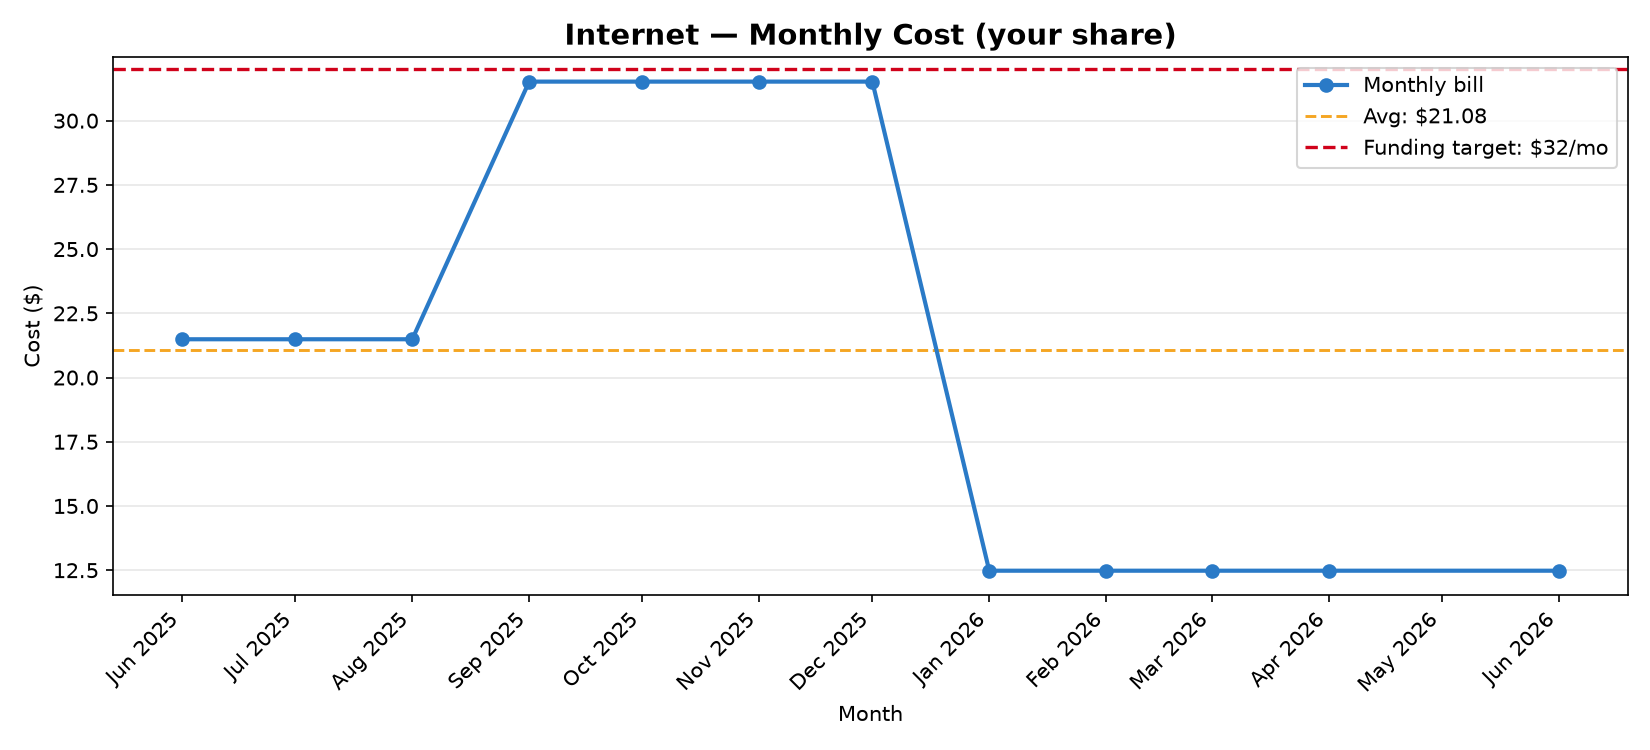
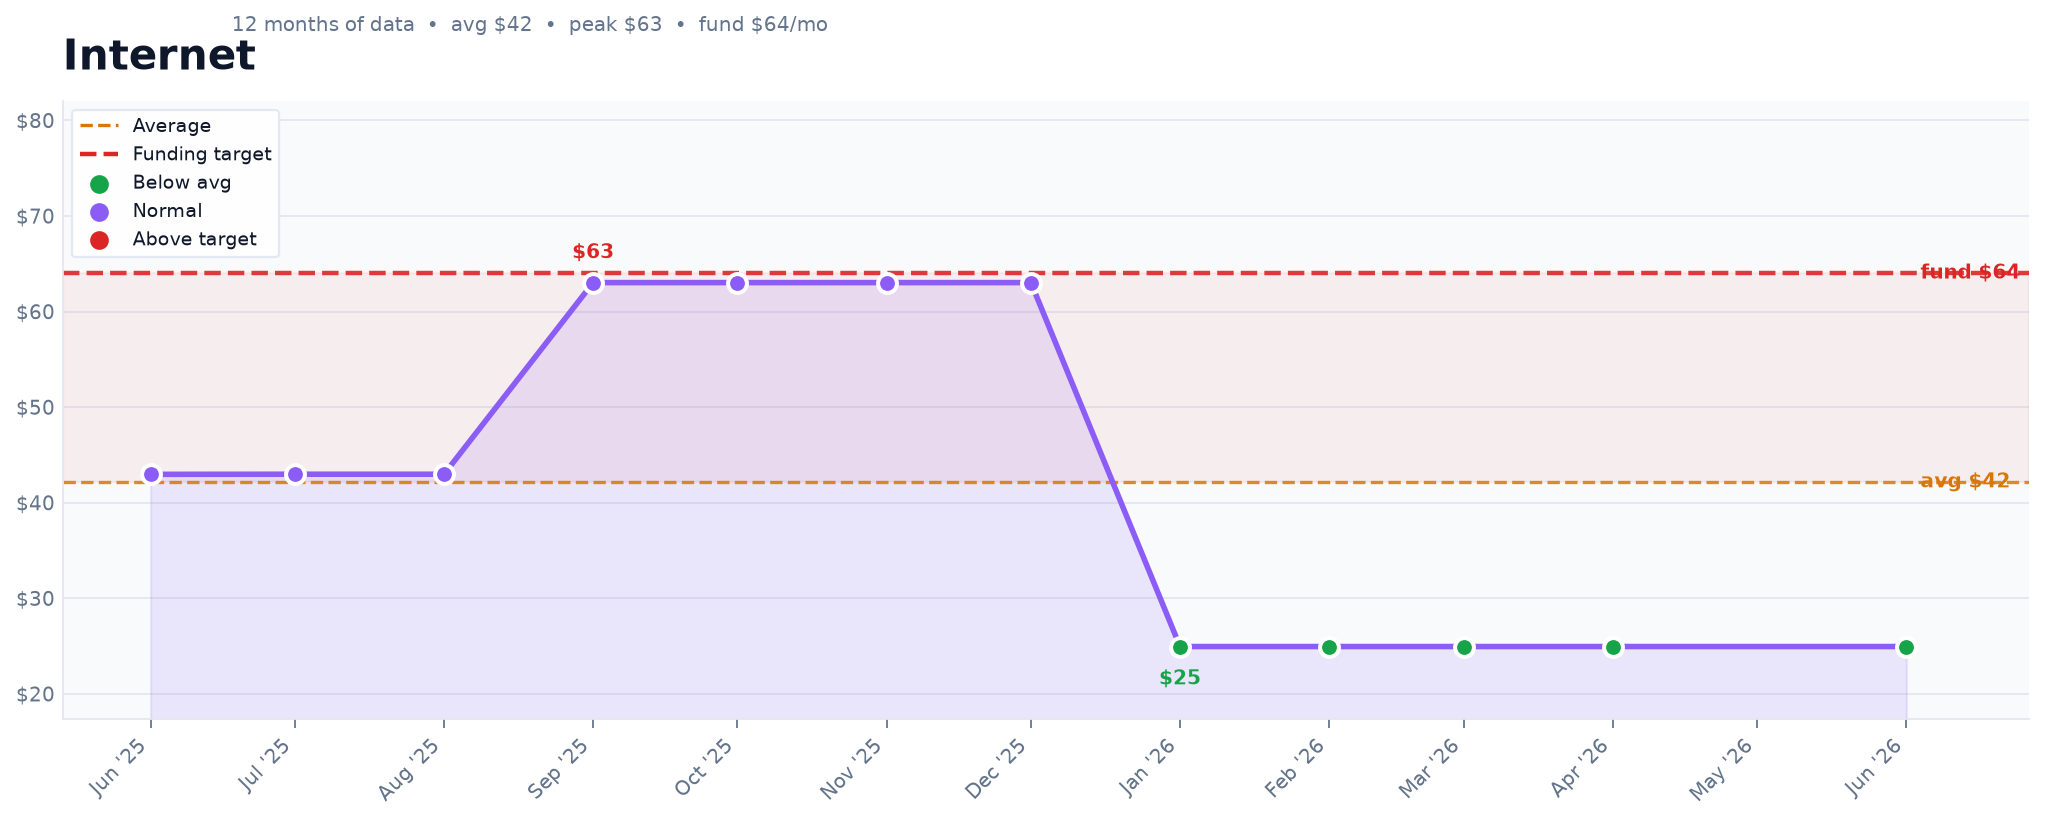
Update bills to full amounts and redesign utility charts
Switch all bill amounts to full (not split) values. Overhaul chart
generation with utility-specific colors, fill-under-line, color-coded
data points (green/blue/red by funding zone), inline avg/target labels,
peak+low annotations, and a new 2x2 overview chart for all utilities.

Claude-Session: https://claude.ai/code/session_019a94zwuEHMtxW31Vn2e8yf

diff --git a/utilities/analyze.py b/utilities/analyze.py
@@ -161,13 +161,47 @@ def seasonal_pattern(values_by_date):
 
 # ─── Charts ───────────────────────────────────────────────────────────────────
 
-def generate_chart(utility, active_rows, excluded_rows, recommended, avg_val):
-    """Save a line chart PNG for this utility. Uses only stdlib + matplotlib."""
+PALETTE = {
+    "blue":    "#2563eb",
+    "amber":   "#d97706",
+    "red":     "#dc2626",
+    "green":   "#16a34a",
+    "gray":    "#94a3b8",
+    "bg":      "#f8fafc",
+    "grid":    "#e2e8f0",
+    "text":    "#0f172a",
+    "subtext": "#64748b",
+}
+
+UTILITY_COLOR = {
+    "Water":    "#0ea5e9",
+    "Power":    "#f59e0b",
+    "Internet": "#8b5cf6",
+    "Trash":    "#10b981",
+}
+
+
+def _setup_ax(ax):
+    ax.set_facecolor(PALETTE["bg"])
+    for spine in ("top", "right"):
+        ax.spines[spine].set_visible(False)
+    ax.spines["left"].set_color(PALETTE["grid"])
+    ax.spines["bottom"].set_color(PALETTE["grid"])
+    ax.grid(axis="y", color=PALETTE["grid"], linewidth=0.8, zorder=0)
+    ax.set_axisbelow(True)
+    ax.tick_params(axis="x", colors=PALETTE["subtext"], length=4)
+    ax.tick_params(axis="y", colors=PALETTE["subtext"], length=0)
+
+
+def generate_chart(utility, active_rows, excluded_rows, recommended, avg_val, s=None):
+    """Save a polished line chart PNG for this utility."""
     try:
         import matplotlib
         matplotlib.use("Agg")
         import matplotlib.pyplot as plt
         import matplotlib.dates as mdates
+        import matplotlib.lines as mlines
+        import matplotlib.ticker as mticker
         import datetime
     except ImportError:
         print("  [charts skipped — install matplotlib: pip install matplotlib]")
@@ -175,37 +209,192 @@ def generate_chart(utility, active_rows, excluded_rows, recommended, avg_val):
 
     os.makedirs(CHARTS_DIR, exist_ok=True)
 
-    def to_date(s):
-        return datetime.datetime.strptime(s, "%Y-%m")
+    def to_date(d):
+        return datetime.datetime.strptime(d, "%Y-%m")
 
-    dates = [to_date(r["date"]) for r in active_rows]
+    dates   = [to_date(r["date"]) for r in active_rows]
     amounts = [r["amount"] for r in active_rows]
+    line_color = UTILITY_COLOR.get(utility, PALETTE["blue"])
 
-    excl_dates = [to_date(r["date"]) for r in excluded_rows]
-    excl_amounts = [r["amount"] for r in excluded_rows]
+    fig, ax = plt.subplots(figsize=(13, 5.5))
+    fig.patch.set_facecolor("white")
+    _setup_ax(ax)
 
-    fig, ax = plt.subplots(figsize=(11, 5))
-    ax.plot(dates, amounts, "o-", linewidth=2, color="#2a7ac7", label="Monthly bill", zorder=3)
-    if excl_dates:
-        ax.scatter(excl_dates, excl_amounts, color="gray", marker="x", s=80,
-                   linewidths=2, label="Excluded (outlier)", zorder=4)
-    ax.axhline(avg_val, color="#f5a623", linestyle="--", linewidth=1.4,
-               label=f"Avg: ${avg_val:.2f}")
-    ax.axhline(recommended, color="#d0021b", linestyle="--", linewidth=1.6,
-               label=f"Funding target: ${recommended:.0f}/mo")
-    ax.set_title(f"{utility} — Monthly Cost (your share)", fontsize=14, fontweight="bold")
-    ax.set_xlabel("Month")
-    ax.set_ylabel("Cost ($)")
-    ax.xaxis.set_major_formatter(mdates.DateFormatter("%b %Y"))
+    # Soft fill under the line
+    ax.fill_between(dates, amounts, alpha=0.13, color=line_color, zorder=1)
+
+    # Avg–target shaded band
+    if recommended > avg_val:
+        ax.axhspan(avg_val, recommended, alpha=0.06, color=PALETTE["red"], zorder=1)
+
+    # Avg and target reference lines
+    ax.axhline(avg_val,     color=PALETTE["amber"], linestyle="--", linewidth=1.5,
+               alpha=0.85, zorder=2)
+    ax.axhline(recommended, color=PALETTE["red"],   linestyle="--", linewidth=2.0,
+               alpha=0.9,  zorder=2)
+
+    # Main line
+    ax.plot(dates, amounts, "-", linewidth=2.5, color=line_color, zorder=3)
+
+    # Color-coded points: green below avg, red above target, line_color otherwise
+    for d, a in zip(dates, amounts):
+        c = (PALETTE["red"]   if a > recommended else
+             PALETTE["green"] if a < avg_val     else line_color)
+        ax.scatter([d], [a], s=72, color=c, zorder=5,
+                   edgecolors="white", linewidths=1.8)
+
+    # Excluded points
+    if excluded_rows:
+        ex_d = [to_date(r["date"])  for r in excluded_rows]
+        ex_a = [r["amount"]          for r in excluded_rows]
+        ax.scatter(ex_d, ex_a, s=70, color=PALETTE["gray"], marker="x",
+                   linewidths=2.2, zorder=5)
+
+    # Annotate peak and low
+    if amounts:
+        hi_i = amounts.index(max(amounts))
+        lo_i = amounts.index(min(amounts))
+        spread = max(amounts) - min(amounts) if len(amounts) > 1 else 1
+        ax.annotate(f"${amounts[hi_i]:.0f}",
+                    (dates[hi_i], amounts[hi_i]),
+                    xytext=(0, 11), textcoords="offset points",
+                    ha="center", fontsize=9, fontweight="bold",
+                    color=PALETTE["red"])
+        ax.annotate(f"${amounts[lo_i]:.0f}",
+                    (dates[lo_i], amounts[lo_i]),
+                    xytext=(0, -17), textcoords="offset points",
+                    ha="center", fontsize=9, fontweight="bold",
+                    color=PALETTE["green"])
+
+    # Inline labels at the right edge of the reference lines
+    if dates:
+        xmax = max(dates)
+        ax.text(xmax, avg_val,     f"  avg ${avg_val:.0f}",
+                va="center", ha="left", fontsize=9,
+                color=PALETTE["amber"], fontweight="semibold")
+        ax.text(xmax, recommended, f"  fund ${recommended}",
+                va="center", ha="left", fontsize=9,
+                color=PALETTE["red"], fontweight="bold")
+
+    # Axes formatting
+    ax.xaxis.set_major_formatter(mdates.DateFormatter("%b '%y"))
     ax.xaxis.set_major_locator(mdates.MonthLocator())
-    plt.xticks(rotation=45, ha="right")
-    ax.legend(loc="upper right")
-    ax.grid(axis="y", alpha=0.3)
-    plt.tight_layout()
+    plt.xticks(rotation=45, ha="right", fontsize=9, color=PALETTE["subtext"])
+    ax.yaxis.set_major_formatter(mticker.FuncFormatter(lambda v, _: f"${v:.0f}"))
+    ax.tick_params(axis="y", labelsize=9, labelcolor=PALETTE["subtext"])
+
+    # Y limits with breathing room
+    y_pad = (max(amounts) - min(amounts)) * 0.2 if len(amounts) > 1 else 10
+    ax.set_ylim(max(0, min(amounts) - y_pad), max(amounts) + y_pad * 2.5)
+
+    # Extend x-axis slightly right for inline labels
+    if len(dates) > 1:
+        span = (max(dates) - min(dates)).days
+        ax.set_xlim(right=max(dates) + datetime.timedelta(days=span * 0.07))
+
+    # Title block
+    ax.set_title(utility, fontsize=19, fontweight="bold",
+                 color=PALETTE["text"], pad=14, loc="left")
+    n_pts = len(amounts)
+    peak  = max(amounts) if amounts else 0
+    fig.text(0.115, 0.91,
+             f"{n_pts} months of data  •  avg ${avg_val:.0f}  •  "
+             f"peak ${peak:.0f}  •  fund ${recommended}/mo",
+             fontsize=9, color=PALETTE["subtext"])
+
+    # Legend
+    legend_handles = [
+        mlines.Line2D([0], [0], color=PALETTE["amber"], linestyle="--",
+                      linewidth=1.5, label=f"Average"),
+        mlines.Line2D([0], [0], color=PALETTE["red"],   linestyle="--",
+                      linewidth=2.0, label=f"Funding target"),
+        plt.scatter([], [], marker="o", c=PALETTE["green"],  s=55, label="Below avg"),
+        plt.scatter([], [], marker="o", c=line_color,          s=55, label="Normal"),
+        plt.scatter([], [], marker="o", c=PALETTE["red"],    s=55, label="Above target"),
+    ]
+    if excluded_rows:
+        legend_handles.append(
+            mlines.Line2D([0], [0], marker="x", color=PALETTE["gray"],
+                          linestyle="None", markersize=8, label="Excluded")
+        )
+    ax.legend(handles=legend_handles, loc="upper left",
+              framealpha=0.92, edgecolor=PALETTE["grid"],
+              fontsize=8.5, labelcolor=PALETTE["text"])
+
+    ax.set_xlabel("")
+    plt.tight_layout(rect=[0, 0, 1, 0.93])
     out_path = os.path.join(CHARTS_DIR, f"{utility.lower()}.png")
-    plt.savefig(out_path, dpi=150)
+    plt.savefig(out_path, dpi=160, bbox_inches="tight")
     plt.close()
     print(f"  Chart saved: charts/{utility.lower()}.png")
+
+
+def generate_overview_chart(all_results):
+    """Save a 2×2 summary overview of all four utilities."""
+    try:
+        import matplotlib
+        matplotlib.use("Agg")
+        import matplotlib.pyplot as plt
+        import matplotlib.dates as mdates
+        import matplotlib.ticker as mticker
+        import datetime
+    except ImportError:
+        return
+
+    os.makedirs(CHARTS_DIR, exist_ok=True)
+
+    fig, axes = plt.subplots(2, 2, figsize=(16, 9))
+    fig.patch.set_facecolor("white")
+    fig.suptitle("Utility Flex Funding — Overview",
+                 fontsize=16, fontweight="bold", color=PALETTE["text"], y=0.98)
+
+    for ax, utility in zip(axes.flat, UTILITIES):
+        if utility not in all_results:
+            ax.set_visible(False)
+            continue
+
+        r = all_results[utility]
+        active = r["active"]
+        line_color = UTILITY_COLOR.get(utility, PALETTE["blue"])
+
+        def to_date(d):
+            return datetime.datetime.strptime(d, "%Y-%m")
+
+        dates   = [to_date(row["date"]) for row in active if row["amount"] > 0]
+        amounts = [row["amount"]         for row in active if row["amount"] > 0]
+
+        _setup_ax(ax)
+        ax.fill_between(dates, amounts, alpha=0.15, color=line_color)
+        ax.plot(dates, amounts, "-", linewidth=2, color=line_color)
+        for d, a in zip(dates, amounts):
+            c = (PALETTE["red"]   if a > r["recommended"] else
+                 PALETTE["green"] if a < r["avg"]          else line_color)
+            ax.scatter([d], [a], s=45, color=c, zorder=4,
+                       edgecolors="white", linewidths=1.4)
+        ax.axhline(r["avg"],         color=PALETTE["amber"], linestyle="--",
+                   linewidth=1.3, alpha=0.8)
+        ax.axhline(r["recommended"], color=PALETTE["red"],   linestyle="--",
+                   linewidth=1.7, alpha=0.9)
+
+        ax.set_title(utility, fontsize=13, fontweight="bold",
+                     color=PALETTE["text"], loc="left", pad=8)
+        ax.set_title(f"fund ${r['recommended']}/mo",
+                     fontsize=10, color=PALETTE["red"], loc="right", pad=8)
+        ax.xaxis.set_major_formatter(mdates.DateFormatter("%b '%y"))
+        ax.xaxis.set_major_locator(mdates.MonthLocator(interval=2))
+        plt.setp(ax.xaxis.get_majorticklabels(), rotation=35, ha="right",
+                 fontsize=8, color=PALETTE["subtext"])
+        ax.yaxis.set_major_formatter(mticker.FuncFormatter(lambda v, _: f"${v:.0f}"))
+        ax.tick_params(axis="y", labelsize=8, labelcolor=PALETTE["subtext"])
+        if amounts:
+            y_pad = (max(amounts) - min(amounts)) * 0.25 if len(amounts) > 1 else 5
+            ax.set_ylim(max(0, min(amounts) - y_pad), max(amounts) + y_pad * 2)
+
+    plt.tight_layout(rect=[0, 0, 1, 0.96])
+    out_path = os.path.join(CHARTS_DIR, "overview.png")
+    plt.savefig(out_path, dpi=160, bbox_inches="tight")
+    plt.close()
+    print(f"  Chart saved: charts/overview.png")
 
 
 # ─── Main analysis ────────────────────────────────────────────────────────────
@@ -308,7 +497,9 @@ def analyze():
         if excluded:
             print(f"    Excluded rows:    {len(excluded)} (marked in bills.csv)")
 
-        generate_chart(utility, active, excluded, recommended, s["avg"])
+        generate_chart(utility, active, excluded, recommended, s["avg"], s)
+
+    generate_overview_chart(results)
 
     # ── Summary ────────────────────────────────────────────────────
     print("\n" + "=" * 62)
